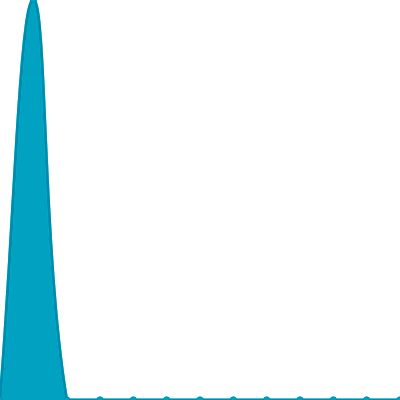
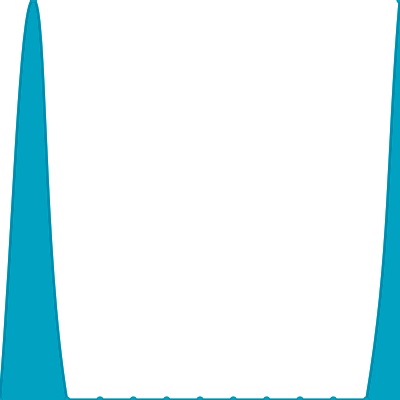
Update views

Changed region(s): [[0.9, 0.0, 1.0, 1.0]]

diff --git a/readme/407146012/year.md b/readme/407146012/year.md
@@ -23,10 +23,10 @@
 			<code>2023/5/1</code>
 		</td>
 		<td>
-			<code>0</code>
+			<code>1</code>
 		</td>
 		<td>
-			<code>0</code>
+			<code>1</code>
 		</td>
 	</tr>
 	<tr>
@@ -164,7 +164,7 @@
 </table>
 
 </details>
-<small><i>Last updated on 2023/5/25 12:10 PM UTC</i></small>
+<small><i>Last updated on 2023/5/25 6:06 PM UTC</i></small>
 
 ## ✂Copy and 📋 Paste
 ### SVG Badge

diff --git a/README.md b/README.md
@@ -149,7 +149,7 @@ The project created and maintained by [gayanvoice](https://github.com/gayanvoice
 	</tr>
 </table>
 
-<small><i>Last updated on 2023/5/25 12:10 PM UTC</i></small>
+<small><i>Last updated on 2023/5/25 6:07 PM UTC</i></small>
 
 ## ✂Copy and 📋 Paste
 ### Total Views Badge

diff --git a/readme/405877089/year.md b/readme/405877089/year.md
@@ -164,7 +164,7 @@
 </table>
 
 </details>
-<small><i>Last updated on 2023/5/25 12:08 PM UTC</i></small>
+<small><i>Last updated on 2023/5/25 6:04 PM UTC</i></small>
 
 ## ✂Copy and 📋 Paste
 ### SVG Badge

diff --git a/readme/407480595/year.md b/readme/407480595/year.md
@@ -164,7 +164,7 @@
 </table>
 
 </details>
-<small><i>Last updated on 2023/5/25 12:09 PM UTC</i></small>
+<small><i>Last updated on 2023/5/25 6:06 PM UTC</i></small>
 
 ## ✂Copy and 📋 Paste
 ### SVG Badge

diff --git a/readme/437118261/year.md b/readme/437118261/year.md
@@ -164,7 +164,7 @@
 </table>
 
 </details>
-<small><i>Last updated on 2023/5/25 12:09 PM UTC</i></small>
+<small><i>Last updated on 2023/5/25 6:04 PM UTC</i></small>
 
 ## ✂Copy and 📋 Paste
 ### SVG Badge

diff --git a/readme/442742397/year.md b/readme/442742397/year.md
@@ -164,7 +164,7 @@
 </table>
 
 </details>
-<small><i>Last updated on 2023/5/25 12:09 PM UTC</i></small>
+<small><i>Last updated on 2023/5/25 6:05 PM UTC</i></small>
 
 ## ✂Copy and 📋 Paste
 ### SVG Badge

diff --git a/readme/459752966/year.md b/readme/459752966/year.md
@@ -164,7 +164,7 @@
 </table>
 
 </details>
-<small><i>Last updated on 2023/5/25 12:09 PM UTC</i></small>
+<small><i>Last updated on 2023/5/25 6:05 PM UTC</i></small>
 
 ## ✂Copy and 📋 Paste
 ### SVG Badge

diff --git a/readme/517565501/year.md b/readme/517565501/year.md
@@ -164,7 +164,7 @@
 </table>
 
 </details>
-<small><i>Last updated on 2023/5/25 12:09 PM UTC</i></small>
+<small><i>Last updated on 2023/5/25 6:04 PM UTC</i></small>
 
 ## ✂Copy and 📋 Paste
 ### SVG Badge

diff --git a/readme/545485979/year.md b/readme/545485979/year.md
@@ -164,7 +164,7 @@
 </table>
 
 </details>
-<small><i>Last updated on 2023/5/25 12:10 PM UTC</i></small>
+<small><i>Last updated on 2023/5/25 6:06 PM UTC</i></small>
 
 ## ✂Copy and 📋 Paste
 ### SVG Badge
